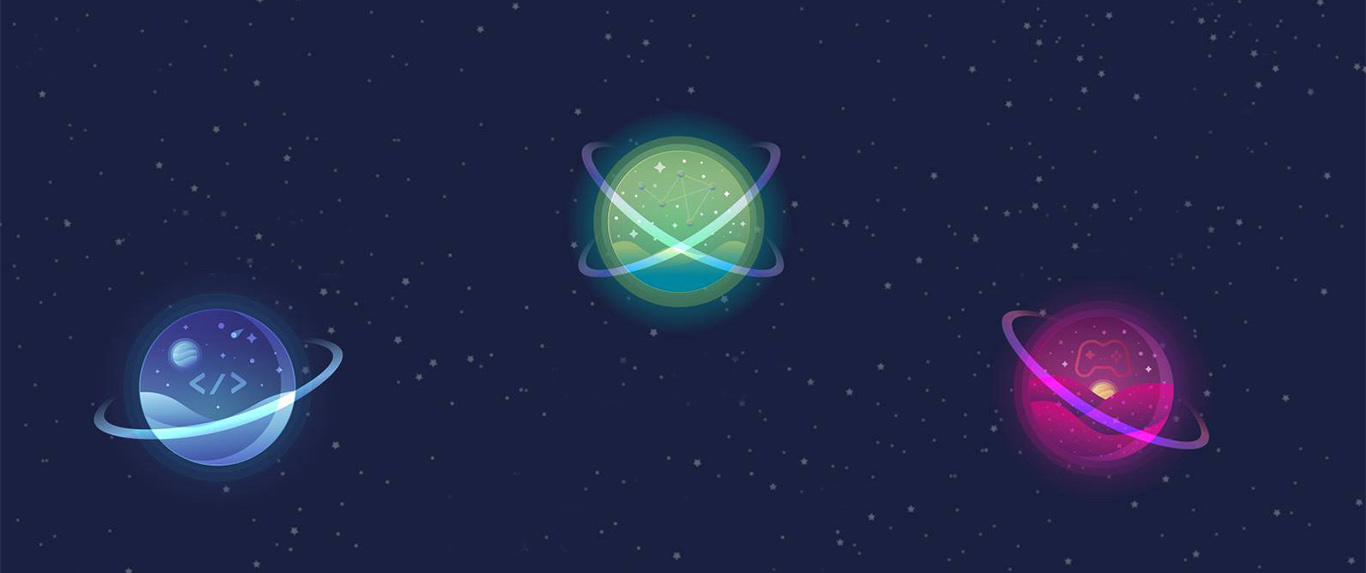
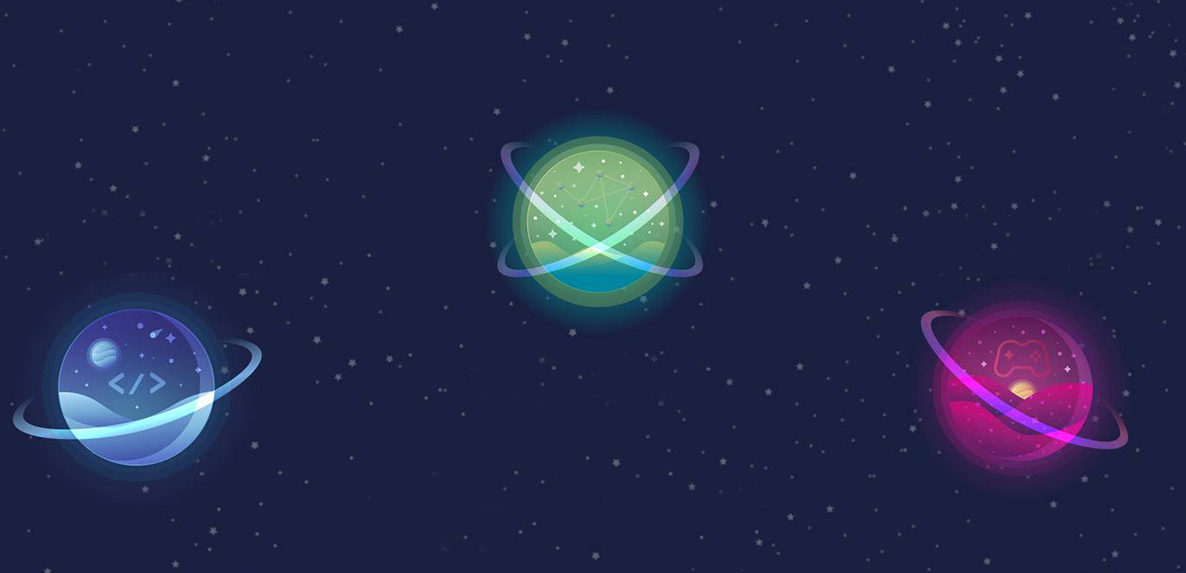
modificare imagine homepage

diff --git a/public/css/style.css b/public/css/style.css
@@ -109,9 +109,11 @@ header .logo img {
 #homecover .backgroundhome {
   width: 100%;
   height: auto;
-    position:absolute;
+    position: absolute;
     top:0;
-    right: 0;
+   
+   right:0;
+    
     opacity: 0;
     z-index: -1;
     transition: 1s all ease;
@@ -119,7 +121,7 @@ header .logo img {
 }
 #homecover .backgroundhome.cover{
     width: 100%;
-    height: 100%;
+    height:100%;
     position:absolute;
     top:0;
     right: 0;
@@ -127,6 +129,23 @@ header .logo img {
     z-index: -1;
     transition: 1s all ease;
      object-fit: fill;
+    
+}
+#homecover .backgroundhome.planete{
+    width: auto;
+    height: 100%;
+    
+    background-position: center center;
+   
+    top:0;
+    left:0;
+    
+    opacity: 0;
+    z-index: -1;
+    transition: 1s all ease;
+    
+  
+     
     
 }
 #homecover .ui.button:hover + img {
@@ -151,12 +170,17 @@ header .logo img {
 #homecover .backgroundhome.show1 {
     animation-name: show;
     animation-duration: .6s;
+    opacity: 1;
+}
+#homecover .backgroundhome.show2 {
+    animation-name: show;
+    animation-duration: .6s;
     opacity: 0.6;
 }
 #content {
     width: 100%;
     color:#111a22;
-    padding: 40px;
+    padding: 0px;
 }
 .ui.segment {
     box-shadow: none !important;
@@ -283,7 +307,8 @@ label span {
     color:#434d56;
 }
 #content ul {
-    margin-left: 60px;
+    margin-left: 0px;
+    margin-right: 0px;
     color:#434d56;
 }
 .webDesc, .algoDesc{
@@ -302,7 +327,7 @@ td:hover {
 }
 @media(max-width:768px){
     #homecover .backgroundhome.cover {
-        width: 100%;
+        width: auto;
         height: 100%;
         opacity: 1;
         position: absolute;
@@ -313,12 +338,23 @@ td:hover {
         display:none;
         
     }
+    #homecover .backgroundhome.show2 {
+        display:none;
+        
+    }
     
 
 }
-@media(min-width: 768px) and (max-width: 991px) {
+
+@media(min-width: 768px) and (max-width: 1250px) {
     .ui.container {
         width: auto;
+    }
+    #homecover .backgroundhome.planete{
+        height:auto;
+        width:100%;
+        bottom: 0px;
+
     }
 }
 @media(max-width: 980px) {

diff --git a/public/js/front.js b/public/js/front.js
@@ -3,24 +3,30 @@ $('.mobile .button.dropdown').dropdown();
 $(document).on('mouseover', '#homecover .ui.button.web', function() {
     $('.backgroundhome.web').addClass('show');
     $('.backgroundhome.cover').removeClass('show1');
+    $('.backgroundhome.planete').removeClass('show2');
 
 }).on('mouseleave', '#homecover .ui.button', function() {
     $('.backgroundhome.web').removeClass('show');
     $('.backgroundhome.cover').addClass('show1');
+    $('.backgroundhome.planete').addClass('show2');
 });
 $(document).on('mouseover', '#homecover .ui.button.gamedev', function() {
     $('.backgroundhome.gamedev').addClass('show');
     $('.backgroundhome.cover').removeClass('show1');
+    $('.backgroundhome.planete').removeClass('show2');
 }).on('mouseleave', '#homecover .ui.button', function() {
     $('.backgroundhome.gamedev').removeClass('show');
     $('.backgroundhome.cover').addClass('show1');
+    $('.backgroundhome.planete').addClass('show2');
 });
 $(document).on('mouseover', '#homecover .ui.button.algo', function() {
     $('.backgroundhome.algo').addClass('show');
     $('.backgroundhome.cover').removeClass('show1');
+    $('.backgroundhome.planete').removeClass('show2');
 }).on('mouseleave', '#homecover .ui.button', function() {
     $('.backgroundhome.algo').removeClass('show');
     $('.backgroundhome.cover').addClass('show1');
+    $('.backgroundhome.planete').addClass('show2');
 });
 $('.ui.dropdown').dropdown();
 $('.contactForm').form({

diff --git a/resources/views/pages/home.blade.php b/resources/views/pages/home.blade.php
@@ -122,7 +122,8 @@
             <img class="backgroundhome web" src="{{ asset('img/web.svg') }}" alt="web tehnology background" />
             <img class="backgroundhome gamedev" src="{{ asset('img/gamedev.jpg') }}" alt="game dev background" />
             <img class="backgroundhome algo" src="{{ asset('img/algo.svg') }}" alt="algorithm background" />
-            <img class="backgroundhome cover show1" src="{{ asset('img/cover.jpg') }}" alt="background" />
+            <img class="backgroundhome cover show1" src="{{ asset('img/covermobile.jpg') }}" alt="background" />
+            <img class="backgroundhome planete show2" src="{{ asset('img/cover.jpg') }}" alt="background" />
             <img class="backgroundhome cover  mobile " src="{{ asset('img/covermobile.jpg') }}" alt="background" />
         </div>
     </section>
